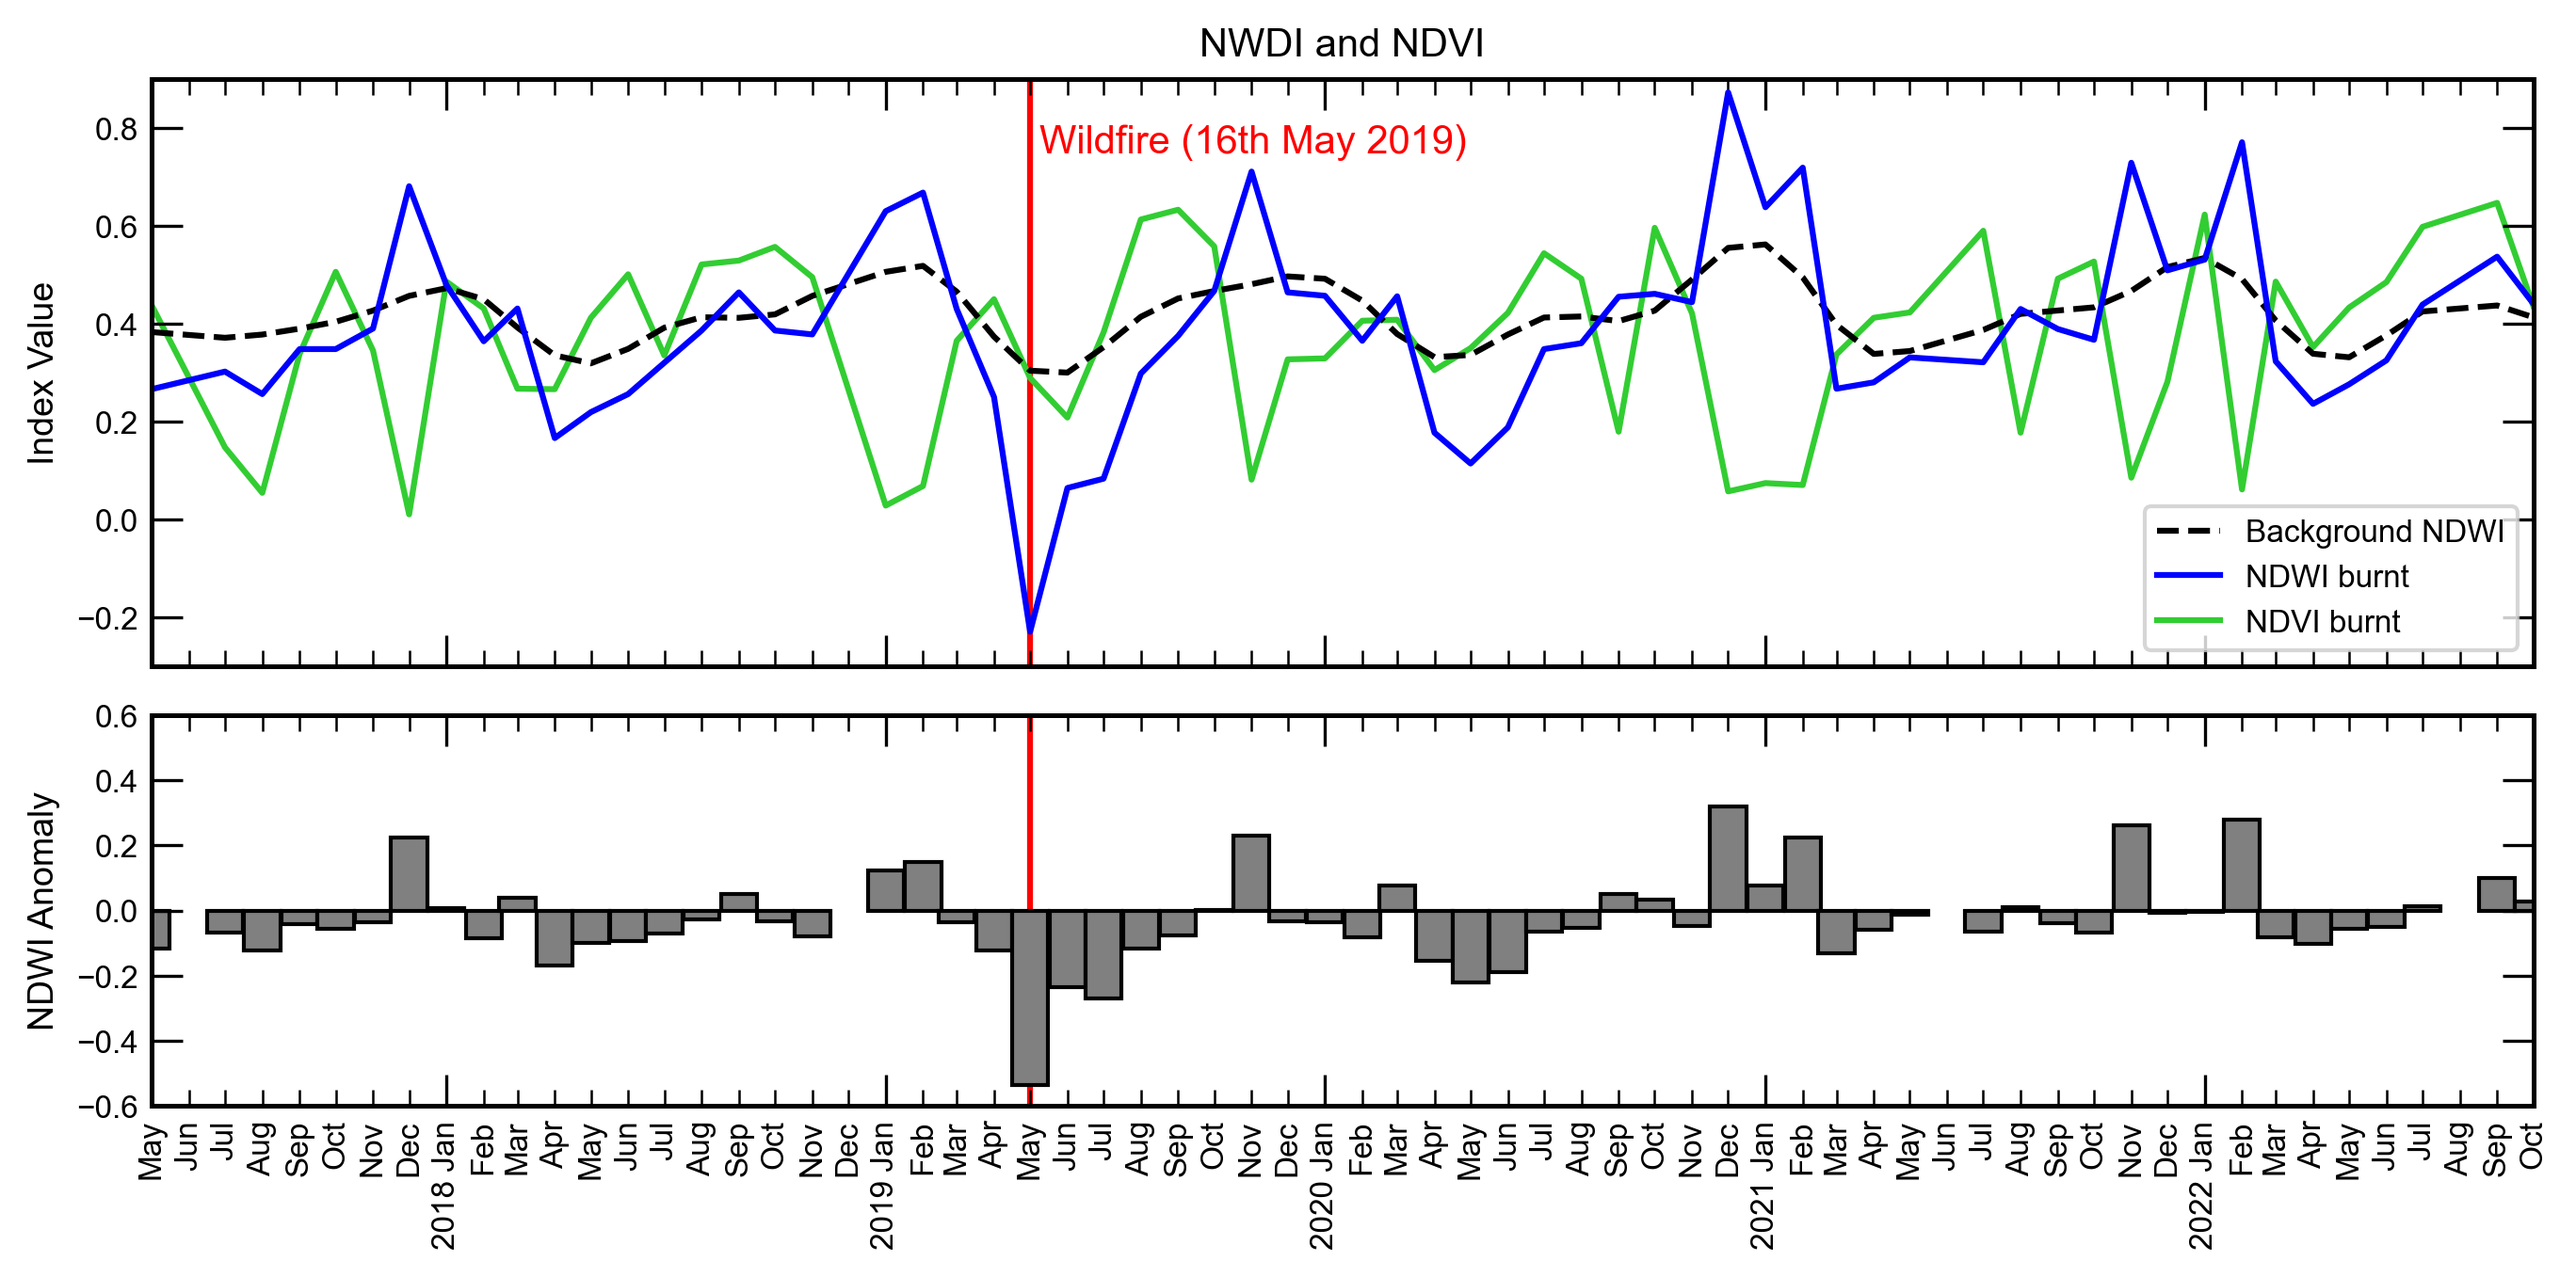
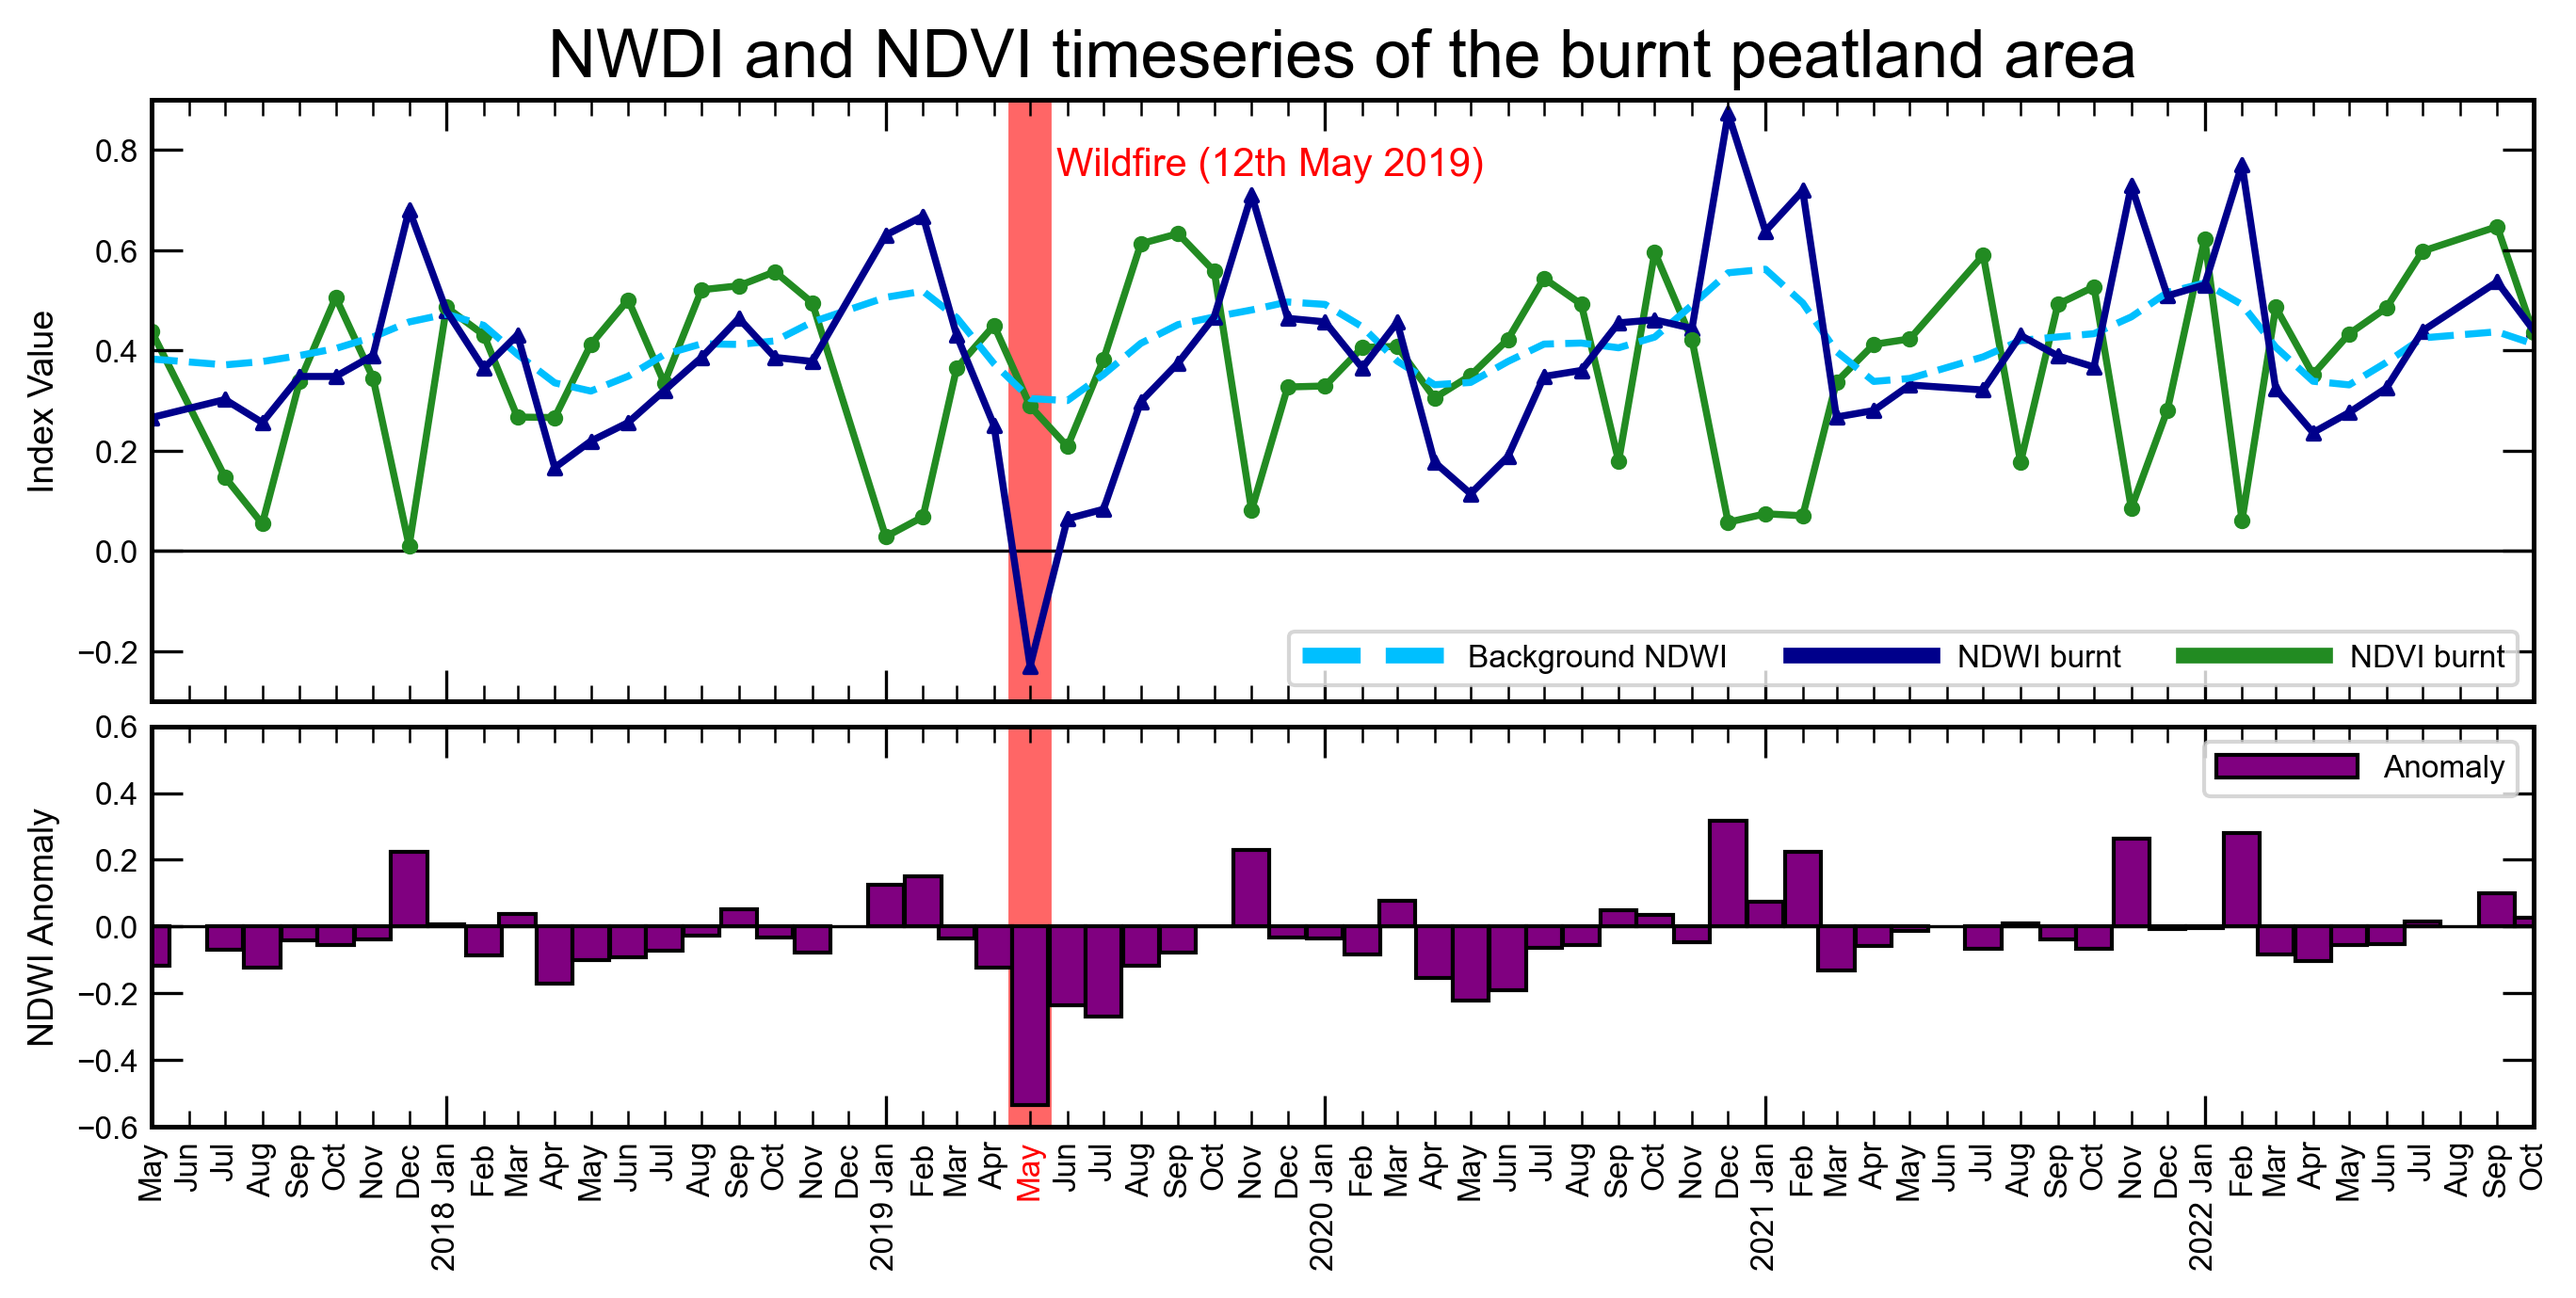
edited timeseries figure

diff --git a/code/time_series_analysis_fft.py b/code/time_series_analysis_fft.py
@@ -22,6 +22,8 @@ plt.rcParams["xtick.major.size"] = 8
 plt.rcParams["ytick.major.size"] = 8
 plt.rcParams["xtick.minor.size"] = 4
 plt.rcParams["ytick.minor.size"] = 4
+#plt.rcParams['axes.facecolor'] = 'black'
+
 
 #--------------import data----------------------------------
 data = pd.read_csv(r'C:\Users\s1834371\Documents\PhD\SENSE_training\Bogs\code\NDVI_NDWI_data_v2.csv')
@@ -48,16 +50,24 @@ anomaly = (ndwi - new_ndwi)
 
 #===================================creating figure=======================================================
 fig = plt.figure()
-spec = gridspec.GridSpec(ncols=1, nrows=2, height_ratios=[1.5,1], hspace=0.1)
-#-----------------------------ax1----------------------------------------
-ax1 = fig.add_subplot(spec[0])
-ax1.plot(date, new_ndwi, label='Background NDWI', color='k', linestyle='--')
-ax1.plot(date, ndwi, label='NDWI burnt', color='b')
-ax1.plot(date, ndvi, label='NDVI burnt', color='limegreen', zorder=-1)
+spec = gridspec.GridSpec(ncols=1, nrows=2, height_ratios=[1.5,1], hspace=0.05)
 
-ax1.vlines(x=pd.to_datetime('2019-05-01'), ymin=-1, ymax=1, colors='r', zorder=-4)
-ax1.text(x=pd.to_datetime('2019-05-09'), y=0.75, s='Wildfire (16th May 2019)', color='red')
-ax1.set_title('NWDI and NDVI')
+#fig.patch.set_facecolor('black')
+
+#-----------------------------ax1----------------------------------------
+#plt.style.use('dark_background')
+ax1 = fig.add_subplot(spec[0])
+ax1.plot(date, new_ndwi, label='Background NDWI', color='deepskyblue', linestyle='--', linewidth=1.8)
+ax1.plot(date, ndwi, label='NDWI burnt', color='darkblue', linewidth=1.8)
+ax1.scatter(date, ndwi, color='darkblue', s=10, marker='^')
+ax1.plot(date, ndvi, label='NDVI burnt', color='forestgreen', zorder=-1, linewidth=1.8)
+ax1.scatter(date, ndvi, color='forestgreen', s=10, marker='o')
+
+ax1.vlines(x=pd.to_datetime('2019-05-01'), ymin=-1, ymax=1, colors='r', linewidth=11.0, alpha=0.6, zorder=-4)
+ax1.hlines(y=0, xmin=date[0], xmax=date[-1], color='k', linewidth=0.8, zorder=-4)
+ax1.text(x=pd.to_datetime('2019-05-23'), y=0.75, s='Wildfire (12th May 2019)', color='red')
+
+ax1.set_title('NWDI and NDVI timeseries of the burnt peatland area', fontsize=17)
 #---formatting dates--------------------------------------
 ax1.xaxis.set_minor_locator(mdates.MonthLocator(interval=1))
 ax1.xaxis.set_major_locator(mdates.YearLocator())
@@ -66,17 +76,29 @@ ax1.legend()
 ax1.set_xlim(date[0], date[-1])
 ax1.set_ylim(-0.3,0.9)
 ax1.set_ylabel('Index Value')
+
+
+leg = ax1.legend(loc='lower right', ncol=3, handlelength=4.5, fontsize=tick_fontsize, columnspacing=2)
+for legobj in leg.legendHandles:
+    legobj.set_linewidth(4.0)
 #-------------------------------ax2-------------------------------------------
 ax2 = fig.add_subplot(spec[1])
 
-ax2.bar(date_dt, anomaly, width=30, color='grey', edgecolor='k')
+ax2.bar(date_dt, anomaly, width=30, color='purple', edgecolor='k', label='Anomaly')
+ax2.hlines(y=0, xmin=date[0], xmax=date[-1], color='k', linewidth=0.8, zorder=-4)
 ax2.set_ylim(-0.6, 0.6)
 ax2.set_xticklabels([])
 ax2.set_ylabel('NDWI Anomaly')
 
+leg = ax2.legend(loc='upper right', ncol=1, handlelength=4.5, fontsize=tick_fontsize, columnspacing=2)
+#for legobj in leg.legendHandles:
+#    legobj.set_linewidth(4.0)
+
 #---formatting dates--------------------------------------
 ax2.xaxis.set_minor_locator(mdates.MonthLocator(interval=1))
 ax2.xaxis.set_minor_formatter(mdates.DateFormatter('%b'))
+ax2.get_xticklabels(which='minor')[22].set_color("red")
+
 ax2.xaxis.set_major_locator(mdates.MonthLocator(interval=1))
 ax2.xaxis.set_major_formatter(mdates.DateFormatter('%b'))
 ax2.xaxis.set_major_locator(mdates.YearLocator())
@@ -84,7 +106,7 @@ ax2.xaxis.set_major_formatter(mdates.DateFormatter('%Y %b'))
 ax2.tick_params(axis='x', which='both', rotation=90)
 ax2.set_xlim(date[0], date[-1])
 
-ax2.vlines(x=pd.to_datetime('2019-05-01'), ymin=-1, ymax=1, colors='r', zorder=-4)
+ax2.vlines(x=pd.to_datetime('2019-05-01'), ymin=-1, ymax=1, colors='r', linewidth=11.0, zorder=-4, alpha=0.6)
 
 #----------saving figure---------------------
 figure_filename = r'code\ndvi_ndwi_figure.png'
